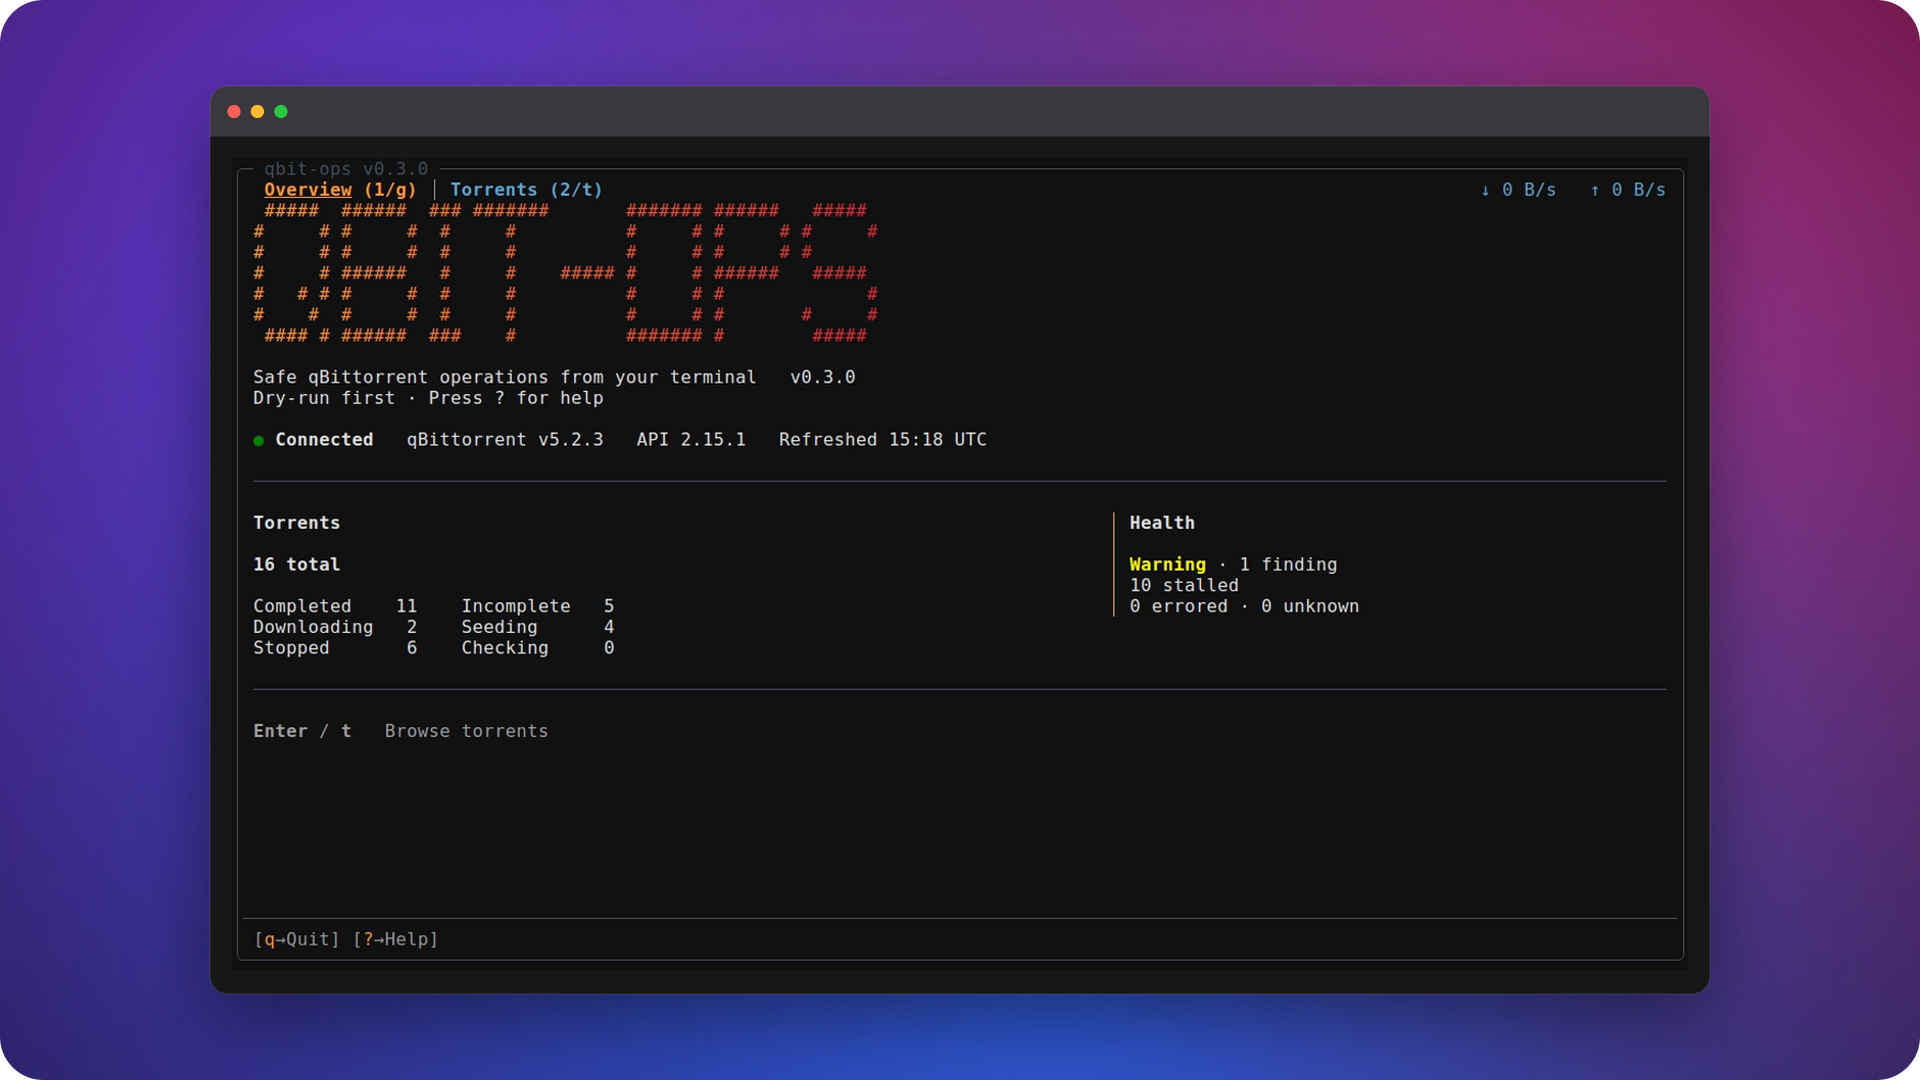
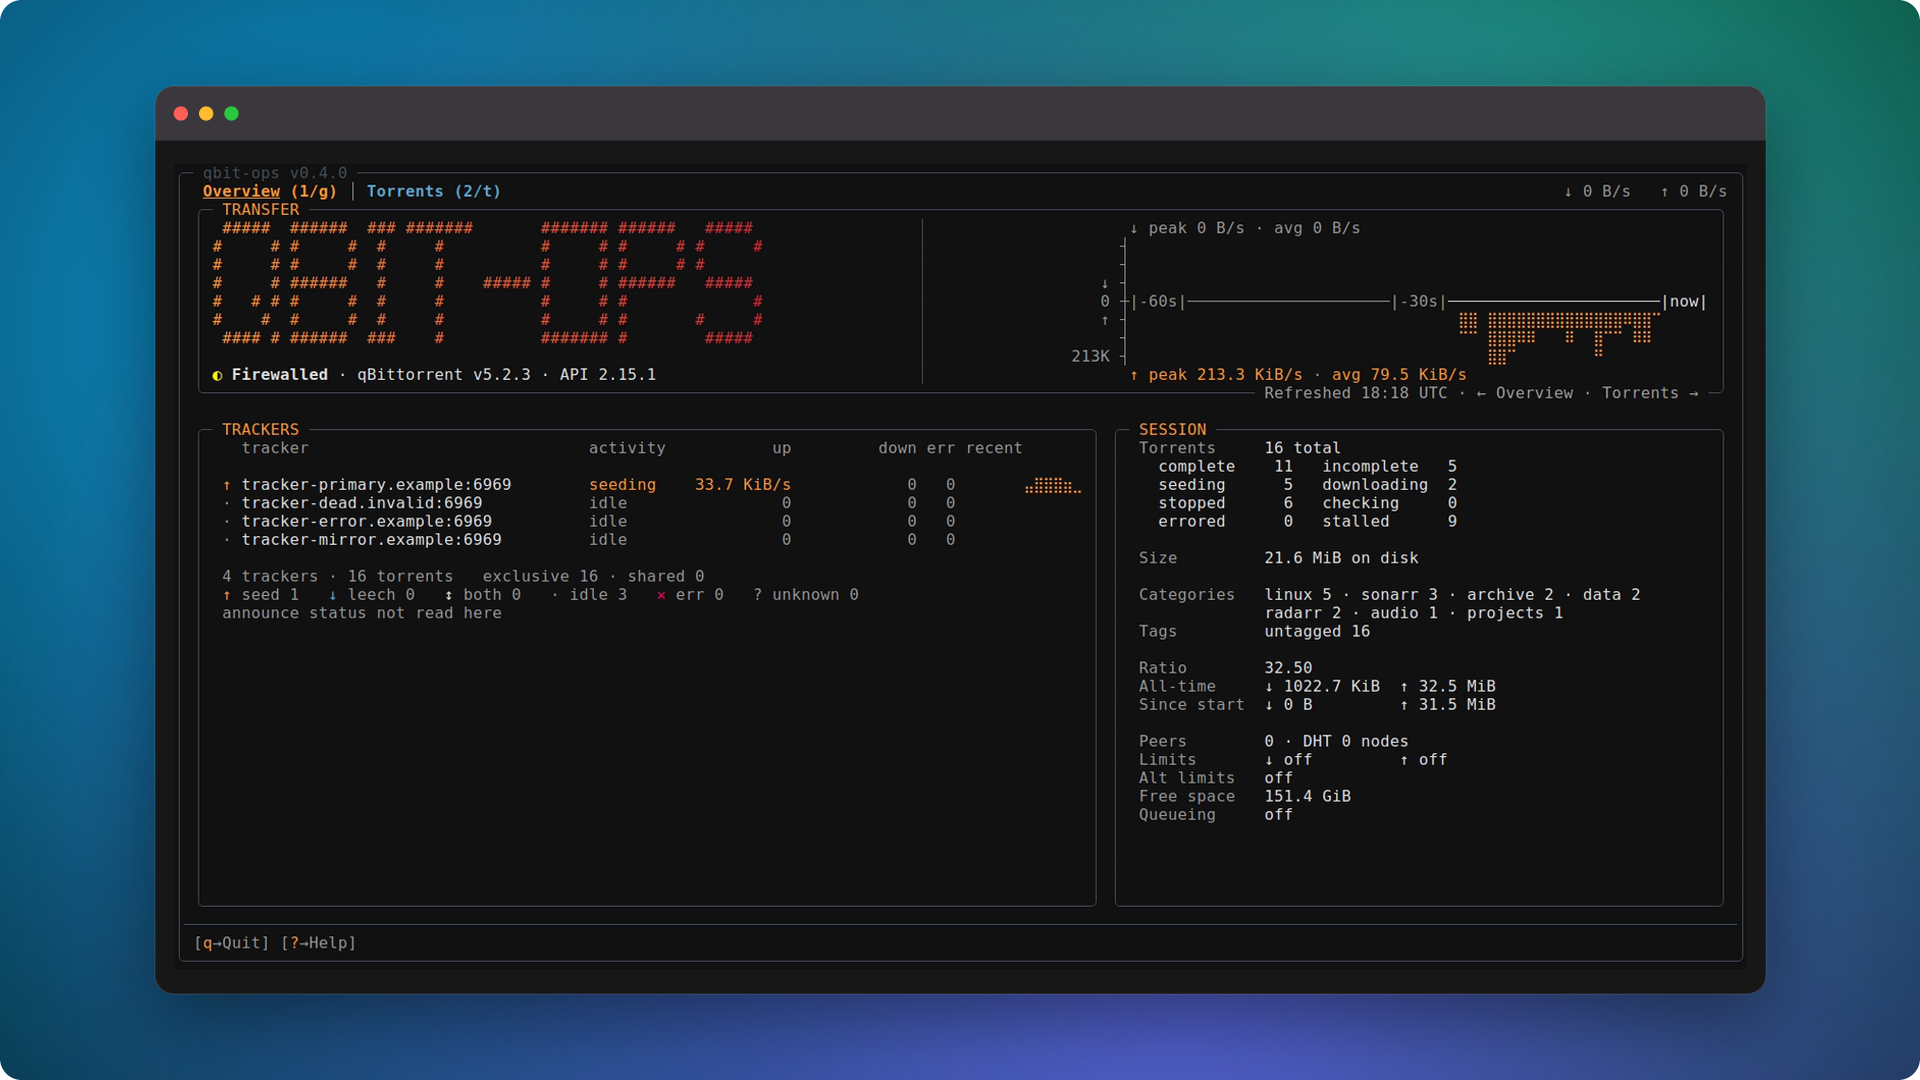
docs(readme): play the demo instead of linking to it
- The hero was a poster image linking out to the GIF, because that GIF
  was 51 MB -- too heavy to inline anywhere. Re-encoding frames as diffs
  took it to 2.1 MB, so play it in place and drop the poster and the
  click-through.
- Refresh all four stills and add two more: filters and details had no
  picture, and the case labelled "Search" was showing the details modal.
- The captures now come from a demo instance that has trackers, a drawn
  rate graph, and five torrents selected rather than one.

diff --git a/README.md b/README.md
@@ -22,9 +22,10 @@ Inspect, diagnose and automate qBittorrent at a scale too big to manage by hand 
 
 > ✨ Featured in [Self-Host Weekly](https://selfh.st/weekly/2026-08-07/) by selfh.st.
 
-[![qbit-ops TUI demo](https://raw.githubusercontent.com/LECOQQ/qbit-ops/main/docs/assets/qbit-ops-demo-poster.webp)](https://github.com/LECOQQ/qbit-ops/blob/main/docs/assets/qbit-ops-demo.gif)
+![qbit-ops TUI demo](https://raw.githubusercontent.com/LECOQQ/qbit-ops/main/docs/assets/qbit-ops-demo.gif)
 
-<p align="center"><em>▶ Click for the animated demo.</em></p>
+<p align="center"><em>A live transfer, a filter, and a bulk pause shown
+before it is applied -- then abandoned. Nothing moved.</em></p>
 
 ## 🚀 Get started
 
@@ -351,9 +352,13 @@ what's pending, what's invalid, and what actually landed.
 |---|---|
 | ![Overview workspace](https://raw.githubusercontent.com/LECOQQ/qbit-ops/main/docs/assets/overview.webp) | ![Torrent table](https://raw.githubusercontent.com/LECOQQ/qbit-ops/main/docs/assets/torrents.webp) |
 
-| Search | Preview before Apply |
+| Search | Filters |
 |---|---|
-| ![Search results](https://raw.githubusercontent.com/LECOQQ/qbit-ops/main/docs/assets/torrent-details.webp) | ![Frozen bulk-action preview](https://raw.githubusercontent.com/LECOQQ/qbit-ops/main/docs/assets/action-preview.webp) |
+| ![Search tolerating word order](https://raw.githubusercontent.com/LECOQQ/qbit-ops/main/docs/assets/search.webp) | ![Filter draft across four panes](https://raw.githubusercontent.com/LECOQQ/qbit-ops/main/docs/assets/filters.webp) |
+
+| Details | Preview before Apply |
+|---|---|
+| ![Details for one torrent, trackers included](https://raw.githubusercontent.com/LECOQQ/qbit-ops/main/docs/assets/details.webp) | ![Frozen bulk-action preview](https://raw.githubusercontent.com/LECOQQ/qbit-ops/main/docs/assets/preview.webp) |
 
 Press `?` inside the TUI to see the available controls.
 
